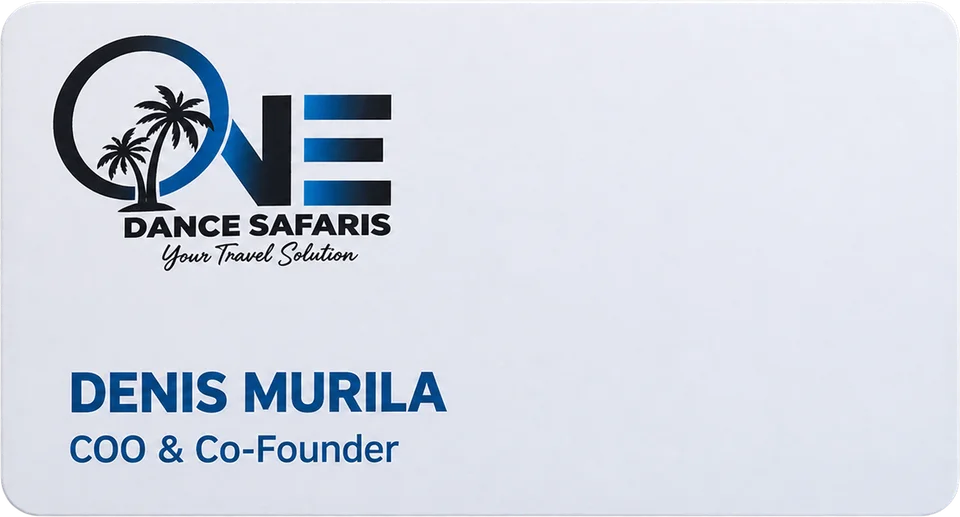
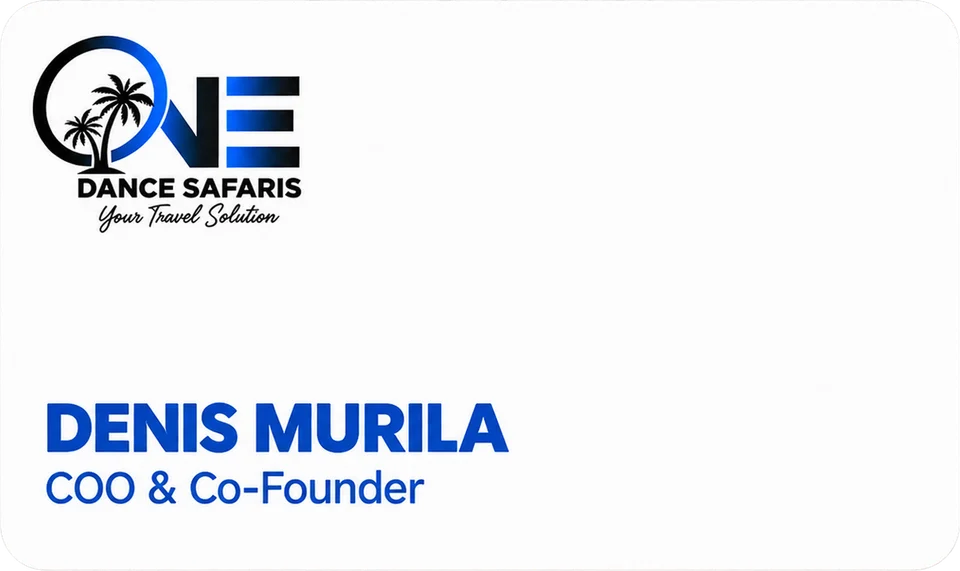
Polish carousel transition, enlarge cards, refresh plastic image
Crossfade now uses the site's ease-lux curve with a subtle slide+scale
instead of a flat opacity toggle, and runs longer for a smoother feel.
Card display size increased on both mobile and desktop. Also swaps in
the updated plastic card cutout provided in Downloads.

Claude-Session: https://claude.ai/code/session_01Q6oN8rsyR6CBCKpqD1M36G

diff --git a/src/components/Ecosystem.tsx b/src/components/Ecosystem.tsx
@@ -7,7 +7,11 @@ export function Ecosystem() {
   const { open: openCreateCardModal } = useCreateCardModal();
   const { index, visible, fadeMs } = useAutoCycle(CARD_FINISHES.length);
   const finish = CARD_FINISHES[index];
-  const fadeStyle = { opacity: visible ? 1 : 0, transition: `opacity ${fadeMs}ms ease` };
+  const fadeStyle = {
+    opacity: visible ? 1 : 0,
+    transform: visible ? 'translateY(0) scale(1)' : 'translateY(12px) scale(.97)',
+    transition: `opacity ${fadeMs}ms cubic-bezier(.16,1,.3,1), transform ${fadeMs}ms cubic-bezier(.16,1,.3,1)`,
+  };
 
   return (
     <RevealSection
@@ -49,7 +53,7 @@ export function Ecosystem() {
                 alt={finish.alt}
                 width={finish.width}
                 height={finish.height}
-                className="animate-lc-float max-h-[129px] w-auto max-w-[65%] rounded-lg border sm:max-h-[231px] sm:max-w-[85%] sm:rounded-2xl"
+                className="animate-lc-float max-h-[168px] w-auto max-w-[74%] rounded-lg border sm:max-h-[290px] sm:max-w-[94%] sm:rounded-2xl"
                 style={{
                   borderColor: 'rgba(255,255,255,.11)',
                   boxShadow: '0 50px 90px -40px rgba(0,0,0,.95), inset 0 1px 0 rgba(255,255,255,.09)',

diff --git a/src/data/content.ts b/src/data/content.ts
@@ -55,7 +55,7 @@ export type CardFinish = { name: string; price: string; image: string; alt: stri
 // img element's intrinsic aspect ratio so cards of different proportions
 // don't stretch or crop against a fixed box.
 export const CARD_FINISHES: CardFinish[] = [
-  { name: 'Plastic', price: 'KES 6,000', image: '/images/card-plastic.webp', alt: 'LuxeCard in plastic finish', width: 960, height: 517 },
+  { name: 'Plastic', price: 'KES 6,000', image: '/images/card-plastic.webp', alt: 'LuxeCard in plastic finish', width: 960, height: 571 },
   { name: 'Wood', price: 'KES 7,000', image: '/images/card-wood.webp', alt: 'LuxeCard in wood finish', width: 960, height: 550 },
   { name: 'Metallic', price: 'KES 10,000', image: '/images/card-metallic.webp', alt: 'LuxeCard in metallic finish', width: 960, height: 574 },
 ];

diff --git a/src/hooks/useAutoCycle.ts b/src/hooks/useAutoCycle.ts
@@ -1,8 +1,8 @@
 import { useEffect, useState } from 'react';
 import { useReducedMotion } from './useReducedMotion';
 
-const INTERVAL_MS = 3800;
-const FADE_MS = 450;
+const INTERVAL_MS = 4200;
+const FADE_MS = 700;
 
 /**
  * Cycles an index through [0, length) on a timer, holding `visible` low for
